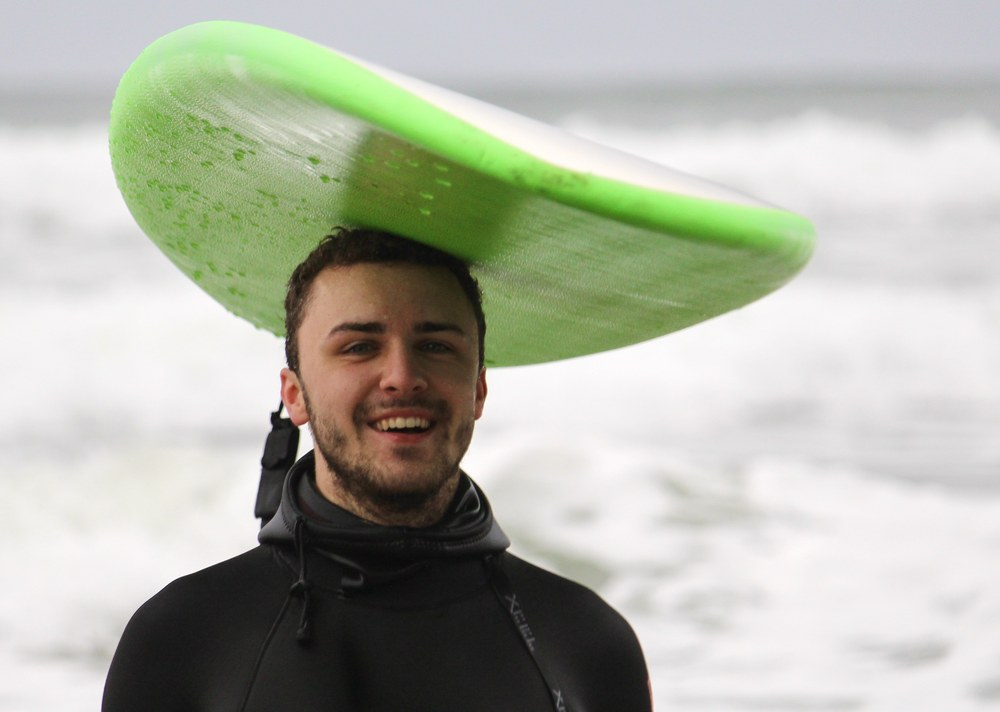
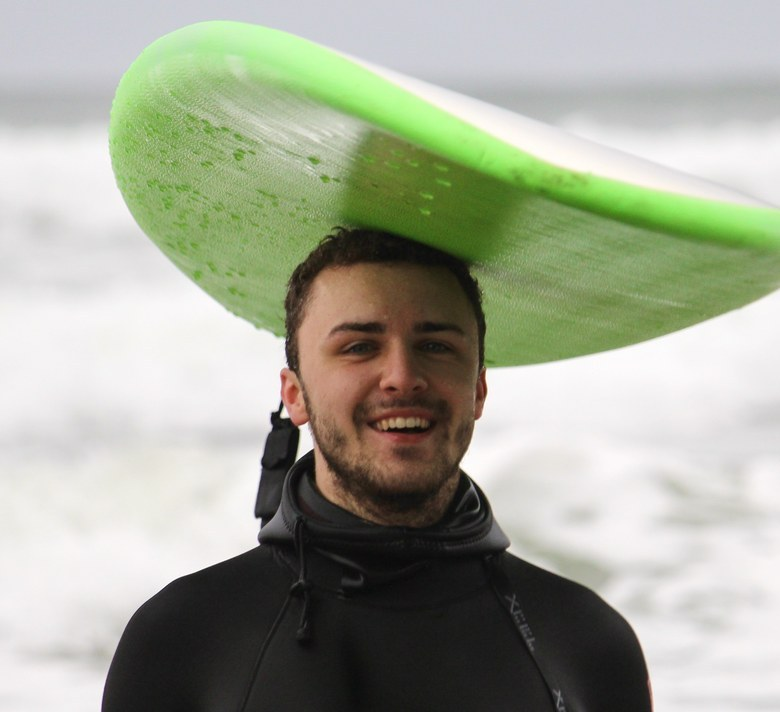
photo fixes

diff --git a/index.html b/index.html
@@ -5,18 +5,17 @@ description: "Personal website of Benjamin Ballyk, DPhil student in Engineering 
 ---
 <div class="container">
 
-  <header class="hero" id="top">
-    <div class="hero-photo">
-      <img src="/assets/img/ben-ballyk.jpg" alt="Benjamin Ballyk laughing on a beach in a wetsuit, balancing a surfboard on his head">
-    </div>
+  <header class="hero" id="about">
     <div class="hero-text">
       <h1>Benjamin Ballyk</h1>
-      <p class="tagline">DPhil Student in Engineering Science (Robotics) &middot; University of Oxford</p>
       <p class="intro">
-        I'm Ben &mdash; I build machine learning systems that decode speech directly from brain activity,
-        and the synthetic data methods needed to make that possible safely and at scale. I'm based at the
-        <a href="https://ori.ox.ac.uk/" target="_blank" rel="noopener noreferrer">Oxford Robotics Institute</a>,
-        part of the <a href="https://neural-processing-lab.github.io/" target="_blank" rel="noopener noreferrer">Parker Jones Neural Processing Lab</a>.
+        I'm Ben, a DPhil student in Engineering Science at the University of Oxford, based at the
+        <a href="https://ori.ox.ac.uk/" target="_blank" rel="noopener noreferrer">Oxford Robotics Institute</a>.
+        I'm supervised by <a href="https://ori.ox.ac.uk/people/oiwi-parker-jones" target="_blank" rel="noopener noreferrer">Oiwi Parker Jones</a>
+        and <a href="https://ori.ox.ac.uk/people/ingmar-posner" target="_blank" rel="noopener noreferrer">Ingmar Posner</a>, as part of the
+        <a href="https://neural-processing-lab.github.io/" target="_blank" rel="noopener noreferrer">Parker Jones Neural Processing Lab</a> and the Applied AI Lab.
+        Before Oxford, I completed an MSc in Mathematical Modelling &amp; Scientific Computing here, and a dual degree in
+        Mechanical Engineering (Western University) and Business Administration (Ivey Business School) in Canada.
       </p>
       <div class="contact-row">
         <a href="mailto:[email redacted]">Email</a>
@@ -26,48 +25,16 @@ description: "Personal website of Benjamin Ballyk, DPhil student in Engineering 
         <a href="https://ori.ox.ac.uk/people/ben-ballyk" target="_blank" rel="noopener noreferrer">ORI Profile</a>
       </div>
     </div>
+    <div class="hero-photo">
+      <img src="/assets/img/ben-ballyk.jpg" alt="Benjamin Ballyk laughing on a beach in a wetsuit, balancing a surfboard on his head">
+    </div>
   </header>
-
-  <section id="about">
-    <h2>About</h2>
-    <p>
-      I'm a DPhil student in Engineering Science at the University of Oxford, based at the Oxford Robotics Institute.
-      I'm part of the <a href="https://neural-processing-lab.github.io/" target="_blank" rel="noopener noreferrer">Parker Jones Neural Processing Lab (PNPL)</a>
-      and the Applied AI Lab (A2I), supervised by Dr Oiwi Parker Jones and Professor Ingmar Posner.
-    </p>
-    <p>
-      Before Oxford, I completed an MSc in Mathematical Modelling &amp; Scientific Computing at Oxford (Merit), and a dual
-      degree in Mechanical Engineering (Western University) and Business Administration (Ivey Business School) in Canada.
-      Since then I've worked as a machine learning researcher across autonomous vehicles and digital health.
-    </p>
-
-    <h3>Experience</h3>
-    <ul class="timeline">
-      <li>
-        <span class="role">ML Researcher &mdash; Autonomous Vehicles</span>
-        <span class="org-date">Magna International, Toronto &middot; Summer 2025</span>
-      </li>
-      <li>
-        <span class="role">Clinical ML Researcher</span>
-        <span class="org-date">Vironix Health, Oxford &middot; May 2024 &ndash; Sept 2025</span>
-      </li>
-      <li>
-        <span class="role">Forensic Modeling Analyst</span>
-        <span class="org-date">Matcor-Matsu Group, Brampton &middot; Summer 2023</span>
-      </li>
-      <li>
-        <span class="role">Research Assistant</span>
-        <span class="org-date">University of Western Ontario &middot; Autumn 2022</span>
-      </li>
-    </ul>
-  </section>
 
   <section id="research">
     <h2>Research</h2>
-    <p>
-      I work at the intersection of generative modelling and neurotechnology. My research asks how machines can
-      decode speech directly from brain activity &mdash; robustly, and without requiring huge amounts of hard-to-collect
-      neural data.
+    <p class="section-intro">
+      My research centers on decoding speech directly from brain activity using biologically-grounded generative
+      models, though I also dabble in vision-language models for autonomous driving.
     </p>
     <ul class="theme-list">
       <li>

diff --git a/assets/css/style.css b/assets/css/style.css
@@ -139,7 +139,7 @@ button:focus-visible {
 
 .hero {
   display: grid;
-  grid-template-columns: 240px 1fr;
+  grid-template-columns: 1fr 240px;
   gap: 2.5rem;
   align-items: center;
   padding: 3rem 0 2.5rem;
@@ -147,7 +147,7 @@ button:focus-visible {
 
 .hero-photo img {
   width: 100%;
-  aspect-ratio: 1000 / 712;
+  aspect-ratio: 780 / 712;
   object-fit: cover;
   object-position: 50% 50%;
   border-radius: 14px;
@@ -160,14 +160,8 @@ button:focus-visible {
   margin-bottom: 0.35rem;
 }
 
-.tagline {
-  font-size: 1.05rem;
-  color: var(--muted);
-  margin-bottom: 1rem;
-}
-
 .intro {
-  max-width: 52ch;
+  max-width: 58ch;
 }
 
 .contact-row {
@@ -185,38 +179,11 @@ section {
   border-top: 1px solid var(--border);
 }
 
-/* Timeline / experience */
-
-.timeline {
-  list-style: none;
-  margin: 0.75rem 0 0;
-  padding: 0;
-}
-
-.timeline li {
-  display: flex;
-  flex-wrap: wrap;
-  justify-content: space-between;
-  gap: 0.25rem 1rem;
-  padding: 0.55rem 0;
-  border-bottom: 1px solid var(--border);
-}
-
-.timeline li:last-child {
-  border-bottom: none;
-}
-
-.role {
-  font-weight: 500;
-}
-
-.org-date {
-  color: var(--muted);
-  font-size: 0.92rem;
-  text-align: right;
-}
-
 /* Research themes */
+
+.section-intro {
+  color: var(--muted);
+}
 
 .theme-list {
   list-style: none;
@@ -392,14 +359,5 @@ section {
 
   .hero h1 {
     font-size: 2rem;
-  }
-
-  .timeline li {
-    flex-direction: column;
-    gap: 0.15rem;
-  }
-
-  .org-date {
-    text-align: left;
   }
 }